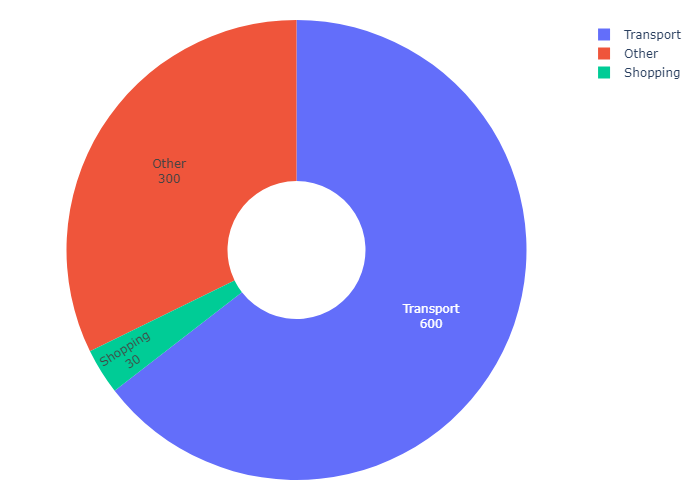
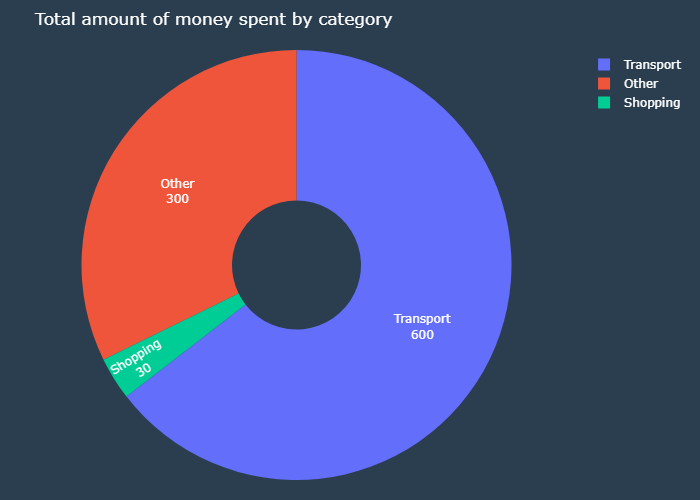
34: UI Pie Chart changes

diff --git a/main.py b/main.py
@@ -114,9 +114,12 @@ def create_pie_chart():
     category_sum_price = df.groupby("category")["price"].sum()
 
     # create pie chart
-    fig = px.pie(values=category_sum_price.values, names=category_sum_price.index, hole=0.3)
-    fig.update_traces(textinfo="value+label")
-    fig.update_layout(margin=dict(t=20, b=20, l=20, r=20))
+    fig = px.pie(title="Total amount of money spent by category",
+                 values=category_sum_price.values,
+                 names=category_sum_price.index,
+                 hole=0.3)
+    fig.update_traces(textinfo="value+label", textfont_color="white")
+    fig.update_layout(margin=dict(t=50, b=20, l=20, r=20), paper_bgcolor='#2b3e50', font=dict(color="white"))
     fig.write_image("pie_chart/pie_budget.png")
 
 # Update image into Canvas every time when update any values in the DataBase
